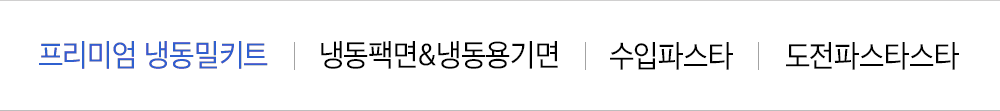
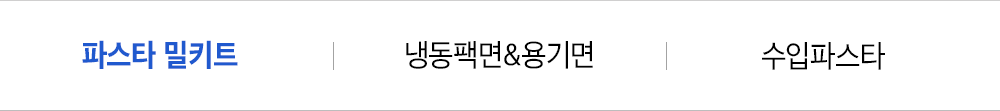
면사랑 디자인 변경

Changed region(s): [[0.31, 0.3514, 0.961, 0.6486], [0.031, 0.3514, 0.279, 0.6216]]

diff --git a/pasta/index.html b/pasta/index.html
@@ -28,10 +28,9 @@
                 <img src="./assets/images/menu.png" alt="" usemap="#menu_link" class="menu_item">
 
                 <map name="menu_link">
-                    <area target="_self" alt="프리미엄 냉동밀키트"  title="프리미엄 냉동밀키트" href="#" coords="0,0,295,111" shape="rect" data-idx="0" class="js-scroll">
-                    <area target="_self" alt="냉동팩면&냉동용기면"  title="냉동팩면&냉동용기면" href="#" coords="295,0,586,111" shape="rect" data-idx="1" class="js-scroll">
-                    <area target="_self" alt="수입파스타"           title="수입파스타" href="#" coords="586,0,759,111" shape="rect" data-idx="2" class="js-scroll">
-                    <area target="_self" alt="도전파스타스타"       title="도전파스타스타" href="#" coords="759,0,1000,111" shape="rect" data-idx="3" class="js-scroll">
+                    <area target="_self" alt="파스타 밀키트" title="파스타 밀키트" href="#" coords="0,0,335,111" shape="rect" data-idx="0" class="js-scroll">
+                    <area target="_self" alt="냉동팩면&용기면" title="냉동팩면&용기면" href="#" coords="335,0,668,111" shape="rect" data-idx="1" class="js-scroll">
+                    <area target="_self" alt="수입파스타" title="수입파스타" href="#" coords="668,0,1000,111" shape="rect" data-idx="2" class="js-scroll">
                 </map>
             </div>
         </div>
@@ -43,7 +42,7 @@
                 <img src="./assets/images/con_1.png" alt="" usemap="#cont1_link">
 
                 <map name="cont1_link">
-                    <area target="_self" alt="구매하기" title="구매하기" href="#" coords="311,2433,689,2544" shape="rect">
+                    <area target="_self" alt="밀키트 구매하기" title="밀키트 구매하기" href="https://smartstore.naver.com/noodlelovers/category/f53e72aeed464c03a9119a6389a7dce6?cp=1" coords="588,3094,967,3211" shape="rect">
                 </map>
             </div>
             <div class="cont cont_2 scroll-section">
@@ -54,36 +53,46 @@
                 </div>
 
                 <map name="cont2_link">
-                    <area target="_self" alt="구매하기" title="구매하기" href="#" coords="311,2064,689,2175" shape="rect">
+                    <area target="_self" alt="냉동팩면&용기면 구매하기" title="냉동팩면&용기면 구매하기" href="https://smartstore.naver.com/noodlelovers/category/e91af3ef02b64e0989baffae46996ce4?cp=1" coords="585,2114,967,2225" shape="rect">
                 </map>
             </div>
             <div class="cont cont_3 scroll-section">
                 <img src="./assets/images/con_3.png" usemap="#cont3_link">
 
                 <map name="cont3_link">
-                    <area target="_self" alt="구매하기" title="구매하기" href="#" coords="311,2311,689,2422" shape="rect">
+                    <area target="_self" alt="수입파스타 구매하기" title="수입파스타 구매하기" href="https://smartstore.naver.com/noodlelovers/category/e91af3ef02b64e0989baffae46996ce4?cp=1" coords="583,4173,968,4292" shape="rect">
                 </map>
             </div>
-            <div class="cont cont_4 scroll-section">
-                <img src="./assets/images/con_4.png" alt="">
+            <div class="cont cont_4">
+                <img src="./assets/images/con_4.png" alt="" usemap="#cont4_link">
 
                 <div class="vod_wrap">
                     <iframe width="560" height="315" src="https://www.youtube.com/embed/_DlWf1L2q5U" title="YouTube video player" frameborder="0" allow="accelerometer; autoplay; clipboard-write; encrypted-media; gyroscope; picture-in-picture" allowfullscreen></iframe>
                 </div>
+
+                <map name="cont4_link">
+                    <area target="_self" alt="인스타그램 바로가기" title="인스타그램 바로가기" href="https://www.instagram.com/noodlelovers.com_/" coords="584,1448,968,1571" shape="rect">
+                </map>
             </div>
             <div class="cont cont_5">
-                <img src="./assets/images/con_5.png" usemap="#cont5_link">
+                <img src="./assets/images/con_5.png" alt="" usemap="#cont5_link">
 
                 <map name="cont5_link">
-                    <area target="_self" alt="네이버 면사랑몰 바로가기" title="네이버 면사랑몰 바로가기" href="#" coords="50,300,262,580" shape="rect">
-                    <area target="_self" alt="11번가 바로가기" title="11번가 바로가기" href="#" coords="278,300,490,580" shape="rect">
-                    <area target="_self" alt="쿠팡 로켓프레시 바로가기" title="쿠팡 로켓프레시 바로가기" href="#" coords="508,300,720,580" shape="rect">
-                    <area target="_self" alt="이마트 바로가기" title="이마트 바로가기" href="#" coords="738,300,950,580" shape="rect">
-                    <area target="_self" alt="구매하기" title="구매하기" href="#" coords="311,642,689,753" shape="rect">
+                    <area target="_self" alt="네이버 면사랑몰 바로가기" title="네이버 면사랑몰 바로가기" href="#" coords="81,305,309,591" shape="rect">
+                    <area target="_self" alt="11번가 바로가기" title="11번가 바로가기" href="#" coords="383,298,613,597" shape="rect">
+                    <area target="_self" alt="이마트 바로가기" title="이마트 바로가기" href="#" coords="693,302,912,600" shape="rect">
+                    <area target="_self" alt="구매하기" title="구매하기" href="https://smartstore.naver.com/noodlelovers" coords="581,647,968,768" shape="rect">
                 </map>
             </div>
             <div class="cont cont_6">
-                <img src="./assets/images/con_6.png" alt="">
+                <img src="./assets/images/con_6.png" alt="" usemap="#cont6_link">
+
+                <map name="cont6_link">
+                    <area target="_self" alt="인스타그램" title="인스타그램" href="https://www.instagram.com/noodlelovers.com_/" coords="30,373,130,481" shape="rect">
+                    <area target="_self" alt="페이스북" title="페이스북" href="https://www.facebook.com/noodlelovers93" coords="142,374,234,480" shape="rect">
+                    <area target="_self" alt="유투브" title="유투브" href="https://www.youtube.com/channel/UCNS5hp9CBtU8im" coords="248,376,341,478" shape="rect">
+                    <area target="_self" alt="홈페이지" title="홈페이지" href="https://www.noodlelovers.com/_kor/index.asp" coords="353,377,447,477" shape="rect">
+                </map>
             </div>
         </div>
     </div>

diff --git a/pasta/assets/css/style.css b/pasta/assets/css/style.css
@@ -104,11 +104,11 @@
 .cont_4 .vod_wrap {
 	overflow:hidden;
 	position:absolute;
-    bottom:17%;
+    bottom:23%;
     width:100%;
     margin:0 auto;
 	height:0;
-	padding-bottom:56.26%;
+	padding-bottom:50%;
 }
 .cont_4 .vod_wrap iframe {
 	position:absolute;
